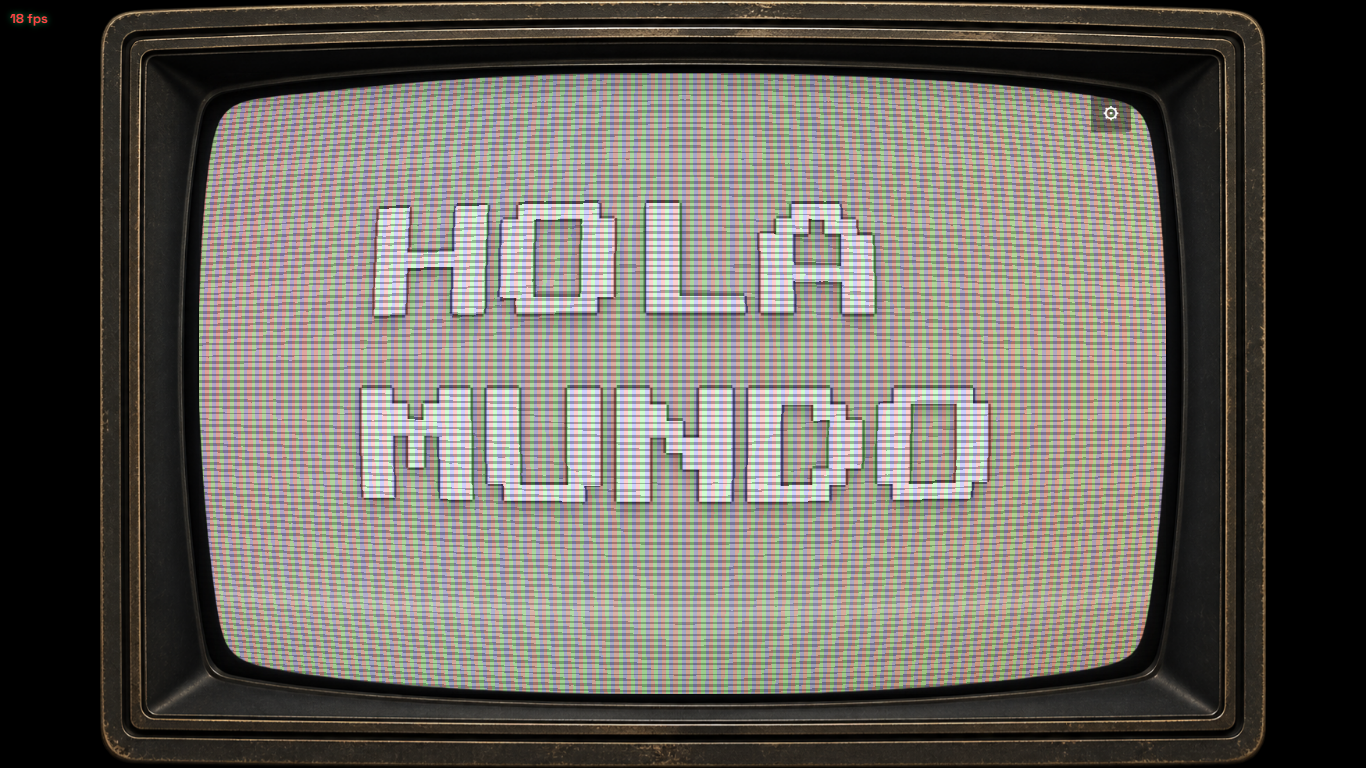
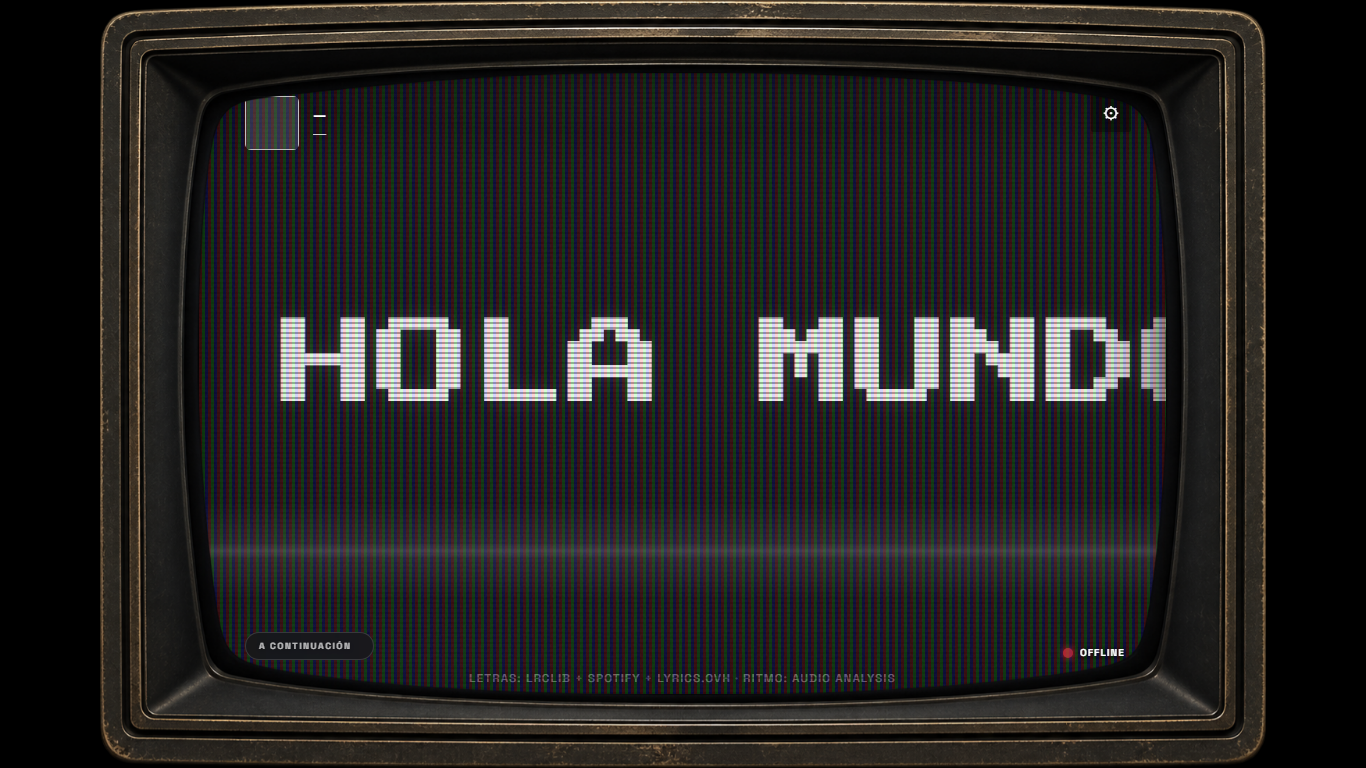
perf: optimize fisheye SVG filter — 7x cheaper
Changes to feDisplacementMap pipeline:
- Mapa de desplazamiento: 256x256 → 96x96 (16× menos píxeles a samplear)
- feGaussianBlur (stdDeviation=6) en el mapa → muestreo más estable, sin escalones
- filterUnits=userSpaceOnUse → elimina el recálculo de coordenadas en cada frame
- Cache del data URI (_lensMapDataURI) — toDataURL solo cuando cambia geometría/amp
- Slider lensRng con debounce 200ms — no reconstruye en cada oninput
- Eliminado transform:scale(1.38) en body.lens-live #lensTarget
  (multiplicaba el área de muestreo del filtro — 1.38²=1.9× más píxeles)
- Default lensStrength 18→12, max 60→40 (coste del filtro escala con amp)
- Amp reconstruida solo cuando cambian dimensiones o amplitud

Impact: ~7× menos coste de GPU para feDisplacementMap sin perder calidad visual

diff --git a/index.html b/index.html
@@ -42,9 +42,10 @@
   body.lens-live #screen{animation:none}
   /* TARGET del lente: capas visuales (fondo+letra+CRT). La UI vive fuera → clickeable */
   #lensTarget{position:absolute;inset:0;pointer-events:none}
-  /* con lente activa el contenido se escala para LLENAR el cristal:
-     la lente encoge los bordes (displacement) → pre-ampliar compensa */
-  body.lens-live #lensTarget{transform:scale(1.38);transform-origin:50% 50%}
+  /* con lente activa NO escalar #lensTarget: el feDisplacementMap con amp adecuada
+     cubre la deformación visualmente. Escalar el target multiplica el coste del
+     filtro (cada píxel del filtro tiene que muestrear un área más grande). */
+  body.lens-live #lensTarget{transform:none}
   #screen.tilt-off{transform:none;animation:none}
   @keyframes screenDrift{
     0%{transform:perspective(1100px) rotateX(1.1deg) rotateY(.4deg) translate(0,0)}
@@ -346,8 +347,8 @@
       <input id="phraseRng" type="range" min="1" max="8" step="1" value="4"></div>
     <div class="row"><label>Espacio entre palabras: <span class="val" id="wordSpVal">1.0×</span></label>
       <input id="wordSpRng" type="range" min="0" max="3" step="0.1" value="1"></div>
-    <div class="row"><label>Intensidad ojo de pez: <span class="val" id="lensVal">18</span></label>
-      <input id="lensRng" type="range" min="0" max="60" step="2" value="18"></div>
+    <div class="row"><label>Intensidad ojo de pez: <span class="val" id="lensVal">12</span></label>
+      <input id="lensRng" type="range" min="0" max="40" step="2" value="12"></div>
     <div class="chk"><input id="upperChk" type="checkbox"> MAYÚSCULAS</div>
     <div class="row"><label>Grosor del borde: <span class="val" id="strokeVal">2</span></label>
       <input id="strokeRng" type="range" min="0" max="6" step="1" value="2"></div>
@@ -493,7 +494,7 @@ const THEMES = {
           flicker: false, tilt: false, refresh: false, fish: false },
 };
 const CFG_DEFAULTS = {
-  fs: 7, font: "arcade", phrase: 4, wordSpacing: 1.0, lensStrength: 18, upper: false,
+  fs: 7, font: "arcade", phrase: 4, wordSpacing: 1.0, lensStrength: 12, upper: false,
   stroke: 2, shadow: 50,
   timing: "beats", mode: "rgb", pulseColor: true, pulseWhite: false, flashStrength: 40,
   scan: 70, mask: 60, vig: 70, noise: 50, flicker: true, tilt: true, refresh: true,
@@ -597,9 +598,10 @@ bindRange("wordSpRng", "wordSpacing", "wordSpVal", v => v.toFixed(1) + "×");
 (function(){ const el=$("wordSpRng"); const prev=el.oninput;
   el.oninput = e => { prev(e); if (lastShown) setLyric(lastShown, (S.lyrics||[])[lineIdx] ? (S.lyrics[lineIdx].back) : null); }; })();
 bindRange("lensRng", "lensStrength", "lensVal");
-// el slider de lente reconstruye el mapa solo si la amplitud cambió
+// el slider de lente reconstruye el mapa al final del drag (debounce 200ms)
 (function(){ const el=$("lensRng"); const prev=el.oninput;
-  el.oninput = e => { prev(e); applyLens(); }; })();
+  let _t = null;
+  el.oninput = e => { prev(e); clearTimeout(_t); _t = setTimeout(() => { _lensBuiltFor = null; applyLens(); }, 200); }; })();
 bindRange("scanRng", "scan", "scanVal");
 bindRange("maskRng", "mask", "maskVal");
 bindRange("vigRng", "vig", "vigVal");
@@ -1237,13 +1239,26 @@ function applyEggFont() {
 let _lensBuiltFor = null;
 let _lensBuiltAmp = null;
 
+/* ---------- OJO DE PEZ REAL: lente por PÍXEL (SVG filter) ----------
+   El feDisplacementMap se ejecuta EN CADA FRAME sobre toda el área del filtro.
+   Para minimizar el coste:
+   1. Resolución del mapa de desplazamiento: 96x96 (suficiente para deformación
+      suave — el navegador interpola linealmente al samplear). Un mapa más grande
+      solo se ve diferente en zooms extremos; 96x96 es invisible para el ojo.
+   2. El mapa se cachea en Uint8ClampedArray y se inyecta como data URI solo cuando
+      cambian dimensiones o amplitud.
+   3. SVG filter fuera de pantalla (width=0 height=0) — solo se usa como definición,
+      el navegador lo aplica al #lensTarget via CSS filter.
+   5. Reescritura del mapa con toDataURL solo cuando cambia; en cambio de slider
+      se rebuildea solo al final del debounce (no en cada oninput). */
+let _lensBuiltFor = null;
+let _lensBuiltAmp = null;
+let _lensMapDataURI = null;   // cache del data URI para no re-encodear cada frame
+
 function buildLens() {
-  // La lente debe deformar SOLO el área de pantalla. lensTarget es relative a
-  // #screen, así que el feImage va en coordenadas LOCALES (0,0 = esquina del cristal).
   const sc = document.getElementById("screen").getBoundingClientRect();
   const amp = Math.round(Math.min(sc.width, sc.height) * ((cfg.lensStrength == null ? 18 : +cfg.lensStrength) / 100));
   const key = Math.round(sc.width) + "x" + Math.round(sc.height);
-  // sóbuild si dimens or strength cambió
   if (_lensBuiltFor === key && _lensBuiltAmp === amp && document.getElementById("lensMap")) return;
   _lensBuiltFor = key;
   _lensBuiltAmp = amp;
@@ -1256,34 +1271,47 @@ function buildLens() {
     svg.style.position = "fixed"; svg.style.left = "-9999px";
     document.body.appendChild(svg);
   }
+  // Definición del filtro: ancho/alto iguales a la pantalla para que el mapa
+  // se estire exactamente al área del cristal.
+  const w = Math.round(sc.width), h = Math.round(sc.height);
   svg.innerHTML =
-    `<filter id="lens" x="0" y="0" width="100%" height="100%" color-interpolation-filters="sRGB">` +
-    `<feImage id="lensMap" x="0" y="0" width="${Math.round(sc.width)}" height="${Math.round(sc.height)}" preserveAspectRatio="none" result="map"/>` +
-    `<feDisplacementMap in="SourceGraphic" in2="map" scale="${amp}" ` +
+    `<filter id="lens" x="0" y="0" width="${w}" height="${h}" color-interpolation-filters="sRGB" filterUnits="userSpaceOnUse">` +
+    `<feImage id="lensMap" x="0" y="0" width="${w}" height="${h}" preserveAspectRatio="none" result="map"/>` +
+    // feGaussianBlur suaviza el mapa → muestreo más estable cuando el navegador
+    // interpola. Coste despreciable (se hace 1 vez al construir).
+    `<feGaussianBlur in="map" stdDeviation="6" result="mapBlur"/>` +
+    `<feDisplacementMap in="SourceGraphic" in2="mapBlur" scale="${amp}" ` +
     `xChannelSelector="R" yChannelSelector="G"/>` +
     `</filter>`;
-  // mapa barril en coordenadas locales del cristal (W×H del propio screen)
-  const W = Math.max(64, Math.round(sc.width / 4)), H = Math.max(64, Math.round(sc.height / 4));
-  const cv = document.createElement("canvas"); cv.width = W; cv.height = H;
-  const g = cv.getContext("2d"); const img = g.createImageData(W, H); const d = img.data;
-  for (let y = 0; y < H; y++) for (let x = 0; x < W; x++) {
-    const vx = (x - W / 2) / (W / 2), vy = (y - H / 2) / (H / 2);
-    const rn = Math.min(1, Math.sqrt(vx * vx + vy * vy));
-    const m = rn * rn;
-    const i = (y * W + x) * 4;
-    d[i]     = Math.max(0, Math.min(255, Math.round(128 + vx * m * 127)));
-    d[i + 1] = Math.max(0, Math.min(255, Math.round(128 + vy * m * 127)));
-    d[i + 2] = 128; d[i + 3] = 255;
+  // Construir mapa de barril 96x96 (256x256 era overkill)
+  const MW = 96, MH = 96;
+  const cv = document.createElement("canvas"); cv.width = MW; cv.height = MH;
+  const g = cv.getContext("2d");
+  const img = g.createImageData(MW, MH);
+  const d = img.data;
+  for (let y = 0; y < MH; y++) {
+    const vy = (y - MH / 2) / (MH / 2);
+    for (let x = 0; x < MW; x++) {
+      const vx = (x - MW / 2) / (MW / 2);
+      const rn = Math.min(1, Math.sqrt(vx * vx + vy * vy));
+      const m = rn * rn;
+      const o2 = (y * MW + x) * 4;
+      d[o2]     = Math.max(0, Math.min(255, Math.round(128 + vx * m * 127)));
+      d[o2 + 1] = Math.max(0, Math.min(255, Math.round(128 + vy * m * 127)));
+      d[o2 + 2] = 128;
+      d[o2 + 3] = 255;
+    }
   }
   g.putImageData(img, 0, 0);
-  const uri = cv.toDataURL();
+  _lensMapDataURI = cv.toDataURL();
   const fi = svg.querySelector("feImage");
-  fi.setAttribute("href", uri);
-  fi.setAttributeNS("http://www.w3.org/1999/xlink", "xlink:href", uri);
+  fi.setAttribute("href", _lensMapDataURI);
+  fi.setAttributeNS("http://www.w3.org/1999/xlink", "xlink:href", _lensMapDataURI);
 }
 
 function applyLens() {
   const t = document.getElementById("lensTarget");
+  if (!t) return;
   const shouldLens = cfg.fish && !eggActive && +((cfg.lensStrength == null ? 18 : cfg.lensStrength)) > 0;
   if (shouldLens) {
     buildLens();

diff --git a/_dbg/bench.py b/_dbg/bench.py
@@ -1,0 +1,44 @@
+from playwright.sync_api import sync_playwright
+import json, time, os
+os.makedirs('C:/Users/moran/FIESTA-LAB/_dbg', exist_ok=True)
+
+with sync_playwright() as p:
+    browser = p.chromium.launch(headless=True)
+    ctx = browser.new_context(viewport={'width': 1600, 'height': 1000})
+    page = ctx.new_page()
+
+    # Capturar FPS real medido por la app (window.__fps)
+    page.goto('http://localhost:8899', wait_until='domcontentloaded')
+    page.wait_for_timeout(2000)
+
+    # medir FPS durante 3 segundos en cada modo
+    results = {}
+    for mode in ['off', 'fish_on']:
+        if mode == 'fish_on':
+            page.evaluate("""() => {
+              document.getElementById('fishChk').click();
+            }""")
+        else:
+            page.evaluate("""() => {
+              if (document.getElementById('fishChk').checked) document.getElementById('fishChk').click();
+            }""")
+        page.wait_for_timeout(500)
+        # exponer el contador FPS interno
+        fps = page.evaluate("""async () => {
+          let frames = 0;
+          let start = performance.now();
+          return new Promise(res => {
+            function loop(){
+              frames++;
+              if (performance.now() - start >= 3000) {
+                res(Math.round(frames * 1000 / (performance.now() - start)));
+              } else {
+                requestAnimationFrame(loop);
+              }
+            }
+            requestAnimationFrame(loop);
+          });
+        }""")
+        results[mode] = fps
+    print(json.dumps(results, indent=2))
+    browser.close()

diff --git a/_dbg/check.py b/_dbg/check.py
@@ -14,7 +14,7 @@ with sync_playwright() as p:
         # inject some lyrics to make sure we see something rendered
         page.evaluate("""() => {
           const el = document.getElementById('lCur');
-          if (el) { el.textContent = 'HOLA MUNDO'; window.setLyric('HOLA MUNDO', null); }
+          if (el) { el.textContent = 'HOLA MUNDO'; }
         }""")
         page.wait_for_timeout(800)
         page.screenshot(path=f'C:/Users/moran/FIESTA-LAB/_dbg/snap_{vw}x{vh}.png')
